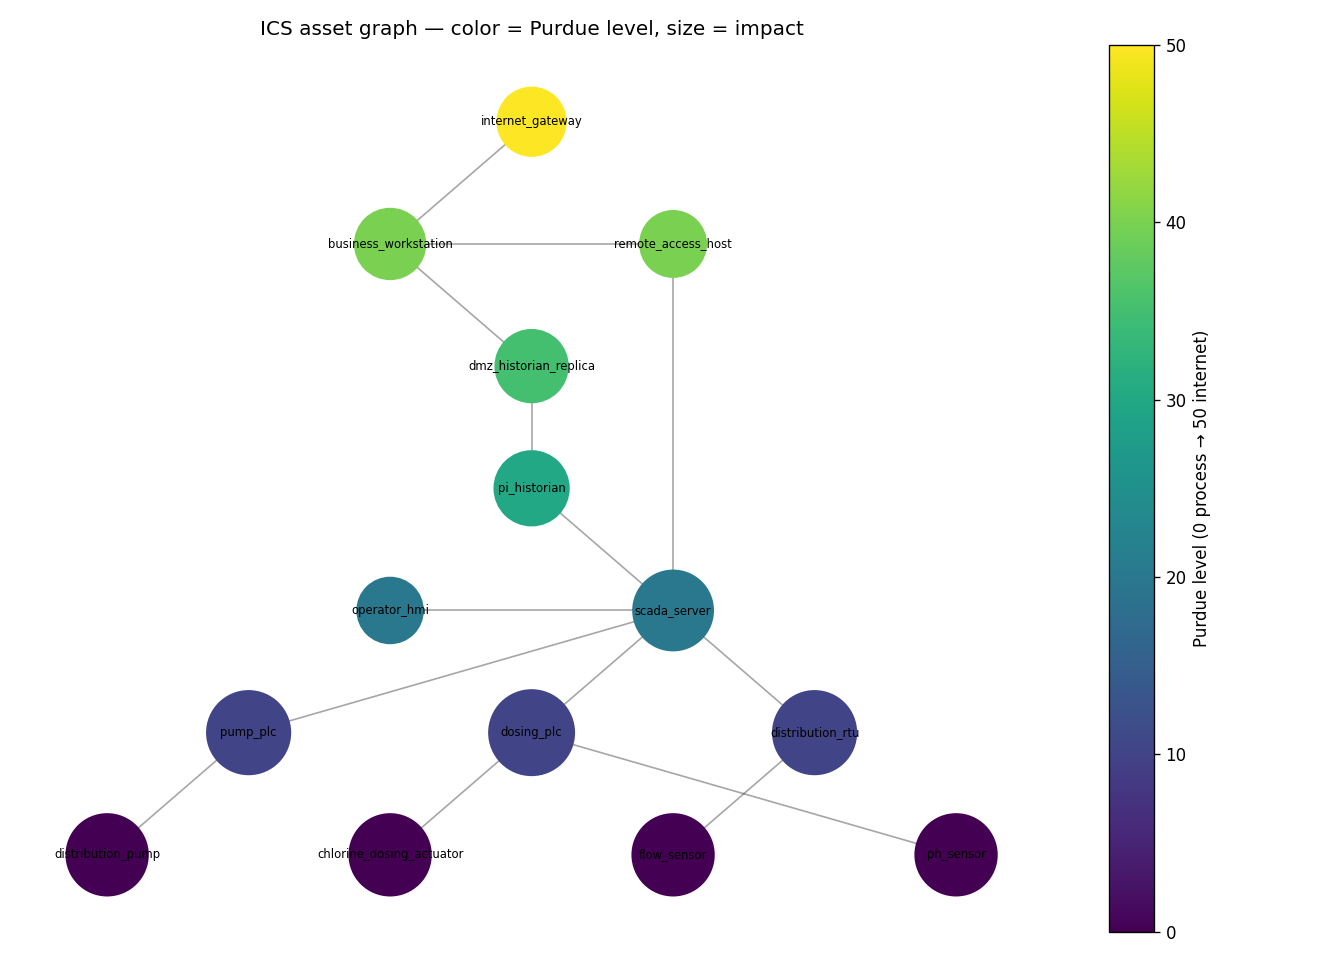
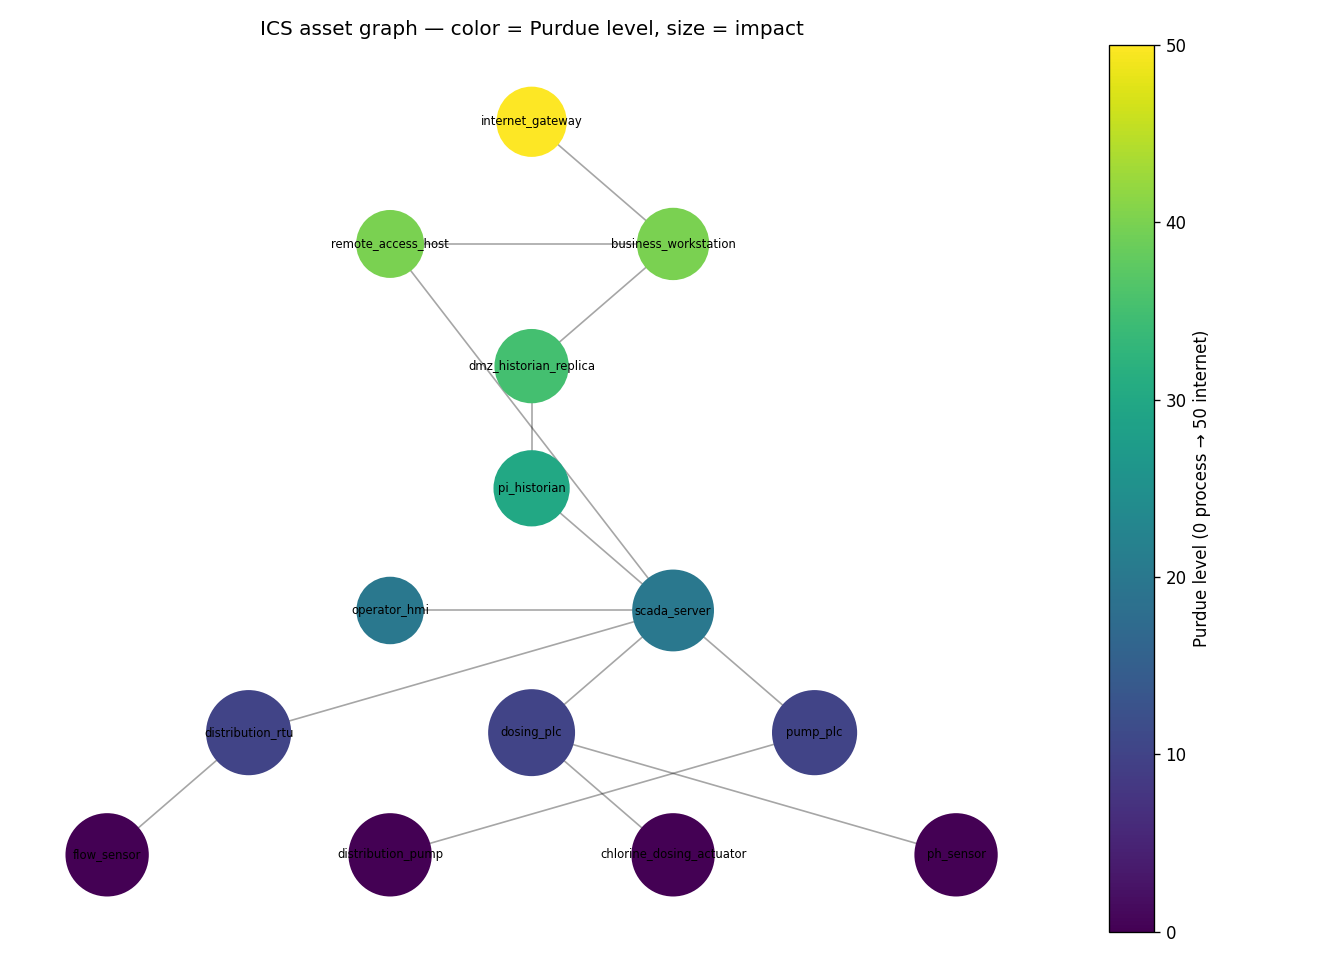
ATT&CK, IEC 62443

diff --git a/ics_modeler/frameworks.py b/ics_modeler/frameworks.py
@@ -1,0 +1,84 @@
+"""Mappings to recognized security frameworks.
+
+- IEC 62443 security zones & conduits (the ICS segmentation standard).
+- MITRE ATT&CK Navigator layer export (a JSON heatmap of technique exposure that
+  loads in https://mitre-attack.github.io/attack-navigator/).
+"""
+from __future__ import annotations
+
+import json
+from pathlib import Path
+
+# Purdue level -> IEC 62443 security zone. 62443 does not prescribe exact names per
+# Purdue level, but this is a conventional zoning of the reference model.
+IEC_62443_ZONE = {
+    "L0_PROCESS": "Process / Safety Zone",
+    "L1_CONTROL": "Basic Control Zone (Cell/Area)",
+    "L2_SUPERVISORY": "Supervisory Control Zone",
+    "L3_OPERATIONS": "Operations / Site Manufacturing Zone",
+    "L3_5_DMZ": "Industrial DMZ",
+    "L4_ENTERPRISE": "Enterprise Zone",
+    "L5_INTERNET": "External / Untrusted Zone",
+}
+_ZONE_ORDER = list(IEC_62443_ZONE)  # process -> external
+
+
+def zone_of(asset) -> str:
+    """The IEC 62443 zone an asset belongs to."""
+    return IEC_62443_ZONE.get(asset.level.name, "Unspecified Zone")
+
+
+def iec62443_zones(architecture) -> list[tuple[str, list[str]]]:
+    """Assets grouped by IEC 62443 zone, ordered process -> external."""
+    out: list[tuple[str, list[str]]] = []
+    for level in _ZONE_ORDER:
+        names = [a.name for a in architecture.assets.values() if a.level.name == level]
+        if names:
+            out.append((IEC_62443_ZONE[level], names))
+    return out
+
+
+def navigator_layer(architecture, mapped) -> dict:
+    """Build an ATT&CK Navigator layer (domain ics-attack) from technique exposure.
+
+    Each exposed technique is scored by the number of assets that expose it, with the
+    asset names in the comment so the heatmap is self-explanatory in Navigator.
+    """
+    by_tech: dict[str, list[str]] = {}
+    for name, data in mapped.items():
+        for t in data.get("techniques", []):
+            by_tech.setdefault(t["id"], []).append(name)
+
+    max_score = max((len(v) for v in by_tech.values()), default=1)
+    techniques = [
+        {
+            "techniqueID": tid,
+            "score": len(assets),
+            "enabled": True,
+            "comment": ", ".join(sorted(assets)),
+        }
+        for tid, assets in sorted(by_tech.items())
+    ]
+    return {
+        "name": f"{architecture.meta.get('name', 'ICS')} — technique exposure",
+        "versions": {"attack": "17", "navigator": "5.1.0", "layer": "4.5"},
+        "domain": "ics-attack",
+        "description": "Technique exposure generated by the Cyber-Physical Attack Surface Modeler.",
+        "techniques": techniques,
+        "gradient": {
+            "colors": ["#ffe8e8", "#fd8d3c", "#a50f15"],
+            "minValue": 0,
+            "maxValue": max_score,
+        },
+        "legendItems": [],
+        "metadata": [],
+        "hideDisabled": False,
+    }
+
+
+def write_navigator_layer(architecture, mapped, dest: str) -> str:
+    """Write the ATT&CK Navigator layer JSON to `dest`; returns the path."""
+    Path(dest).parent.mkdir(parents=True, exist_ok=True)
+    Path(dest).write_text(json.dumps(navigator_layer(architecture, mapped), indent=2),
+                          encoding="utf-8")
+    return dest

diff --git a/tests/test_frameworks.py b/tests/test_frameworks.py
@@ -1,0 +1,41 @@
+"""Tests for IEC 62443 zone mapping and ATT&CK Navigator layer export."""
+import json
+
+from ics_modeler.assets import load_architecture
+from ics_modeler.frameworks import iec62443_zones, navigator_layer, write_navigator_layer
+from ics_modeler.mapping import load_rules, map_architecture
+
+ARCH = "data/water_treatment.yaml"
+RULES = "data/mapping_rules.yaml"
+
+
+def _mapped():
+    arch = load_architecture(ARCH)
+    return arch, map_architecture(arch, load_rules(RULES))
+
+
+def test_navigator_layer_is_a_valid_ics_layer():
+    arch, mapped = _mapped()
+    layer = navigator_layer(arch, mapped)
+    assert layer["domain"] == "ics-attack"
+    assert layer["versions"]["layer"]          # Navigator needs a layer-format version
+    assert layer["techniques"], "expected exposed techniques"
+    for t in layer["techniques"]:              # required per-technique fields
+        assert t["techniqueID"] and t["score"] >= 1 and "comment" in t
+    ids = {t["techniqueID"] for t in layer["techniques"]}
+    assert "T1692.001" in ids                  # dosing_plc (EtherNet/IP) exposes Command Message
+
+
+def test_navigator_layer_writes_json(tmp_path):
+    arch, mapped = _mapped()
+    dest = tmp_path / "layer.json"
+    write_navigator_layer(arch, mapped, str(dest))
+    assert json.loads(dest.read_text())["domain"] == "ics-attack"
+
+
+def test_iec62443_zones_group_assets():
+    arch = load_architecture(ARCH)
+    zones = dict(iec62443_zones(arch))
+    assert "business_workstation" in zones["Enterprise Zone"]
+    # the dosing PLC sits in a control zone
+    assert any("dosing_plc" in names for z, names in zones.items() if "Control" in z)

diff --git a/ics_modeler/report.py b/ics_modeler/report.py
@@ -8,6 +8,8 @@ from __future__ import annotations
 
 from pathlib import Path
 
+from .frameworks import iec62443_zones
+
 _LEVEL_ORDER = [  # process -> internet, for inventory grouping
     "L0_PROCESS", "L1_CONTROL", "L2_SUPERVISORY", "L3_OPERATIONS",
     "L3_5_DMZ", "L4_ENTERPRISE", "L5_INTERNET",
@@ -90,6 +92,20 @@ def generate_briefing(architecture, mapped, scores, paths, chokepoints_,
                      f"— flat path from IT into OT; highest-priority segmentation fix.")
         L.append("")
 
+    # IEC 62443 zones & conduits -------------------------------------------
+    L.append("## IEC 62443 zones & conduits\n")
+    L.append("The architecture expressed in IEC 62443 terms — security **zones** (grouped "
+             "assets) and the **conduits** that connect them.\n")
+    for zone, names in iec62443_zones(architecture):
+        L.append(f"- **{zone}**: {', '.join(names)}")
+    if violations:
+        bypass = "; ".join(f"{v['from']} → {v['to']}" for v in violations)
+        L.append(f"\nConduit concern: IT→OT traffic should traverse the Industrial DMZ; "
+                 f"the following conduit(s) bypass it — **{bypass}**.")
+    else:
+        L.append("\nAll IT→OT conduits are mediated by the Industrial DMZ.")
+    L.append("\n_Reference: IEC 62443-3-3 — System security requirements and security levels._\n")
+
     # Attack-path findings --------------------------------------------------
     L.append("## Attack-path findings (easiest external→critical first)\n")
     L.append("_Paths respect the segmentation policy — edges the firewall denies are "
@@ -145,7 +161,9 @@ def generate_briefing(architecture, mapped, scores, paths, chokepoints_,
     L.append("## Figures\n")
     L.append("- `figures/network.png` — asset graph (color = Purdue level, size = impact)")
     L.append("- `figures/heatmap.png` — technique exposure matrix")
-    L.append("- `figures/risk_matrix.png` — likelihood × impact, one point per asset\n")
+    L.append("- `figures/risk_matrix.png` — likelihood × impact, one point per asset")
+    L.append("- `attack_navigator_layer.json` — load at mitre-attack.github.io/attack-navigator "
+             "for a technique-exposure heatmap\n")
 
     # Scope & limitations ---------------------------------------------------
     L.append("## Scope & limitations\n")

diff --git a/ics_modeler/pipeline.py b/ics_modeler/pipeline.py
@@ -9,6 +9,7 @@ import argparse
 from pathlib import Path
 
 from .assets import load_architecture
+from .frameworks import write_navigator_layer
 from .mapping import load_rules, map_architecture
 from .report import (
     generate_briefing,
@@ -71,6 +72,7 @@ def build(arch_path="data/reference_architecture.yaml",
     plot_network(graph, scores, f"{figdir}/network.png")
     plot_exposure_heatmap(mapped, f"{figdir}/heatmap.png")
     plot_risk_matrix(scores, f"{figdir}/risk_matrix.png")
+    write_navigator_layer(arch, mapped, f"{out_dir}/attack_navigator_layer.json")
 
     return generate_briefing(arch, mapped, scores, paths, chokes, campaigns, violations,
                              f"{out_dir}/briefing.md")

diff --git a/ROADMAP.md b/ROADMAP.md
@@ -179,6 +179,50 @@ pin real values rather than just smoke-checking structure.
 
 ---
 
+## Tier 4 — Security credibility (in progress: #10–11 done, #12–13 queued)
+
+Standard artifacts, framework alignment, and self-applied security hygiene that signal a
+real cyber project rather than a Python project about security.
+
+### 10. ATT&CK Navigator layer export — DONE
+**Why.** Analysts work in MITRE's ATT&CK Navigator daily; a Navigator-compatible layer is an
+instantly recognizable artifact and reuses the technique mapping already built.
+**What was done.** `frameworks.navigator_layer` / `write_navigator_layer` emit a valid
+`domain: "ics-attack"` layer — one entry per exposed technique, scored by the number of
+assets exposing it, with the asset names in the comment and a heat gradient. The pipeline
+writes `attack_navigator_layer.json` alongside the briefing; the committed sample is in
+`examples/water_treatment/`. Tests validate the layer structure.
+**Done when — met.** The pipeline emits a `.json` that loads in ATT&CK Navigator and
+highlights the architecture's exposed techniques.
+
+### 11. IEC 62443 zones & conduits alignment — DONE
+**Why.** IEC 62443 is the ICS-specific security standard; the Purdue + segmentation model is
+already a zones-and-conduits model, so making it explicit is high ICS credibility.
+**What was done.** `frameworks.IEC_62443_ZONE` maps each Purdue level to a 62443 security
+zone; the briefing gained an "IEC 62443 zones & conduits" section that groups assets by zone,
+flags any IT→OT conduit that bypasses the Industrial DMZ (reusing `segmentation_violations`),
+and cites IEC 62443-3-3.
+**Done when — met.** The briefing presents the architecture in 62443 zone/conduit terms and
+cites the standard.
+
+### 12. Supply-chain security + SECURITY.md
+**Why.** A security project is judged on its own hygiene; scanning its dependencies and
+publishing a disclosure policy is table stakes.
+**Plan.** Add a `pip-audit` (dependency CVE scan) job to CI, pin GitHub Actions by commit
+SHA, and add a `SECURITY.md` (supported versions, disclosure process, contact). Optionally a
+CycloneDX SBOM and Dependabot config.
+**Done when.** CI fails on a known-vulnerable dependency, and `SECURITY.md` exists.
+
+### 13. ATT&CK mitigations mapping
+**Why.** Mapping weaknesses to techniques says what's exposed; mapping techniques to their
+ATT&CK mitigations turns that into cited countermeasures — what a real assessment delivers.
+**Plan.** Parse mitigation objects + `mitigates` relationships from the ATT&CK bundle, and in
+the briefing pair each exposed technique with its ATT&CK for ICS mitigations (M-codes) to
+ground the recommendations.
+**Done when.** Briefing recommendations cite specific ATT&CK mitigations per exposed technique.
+
+---
+
 ## Explicitly out of scope (for now)
 
 - Live network/traffic analysis — this is a static, model-based tool by design.

diff --git a/README.md b/README.md
@@ -9,10 +9,11 @@ ATT&CK for ICS techniques, scores and prioritizes risk (NIST SP 800-30), and gen
 a structured vulnerability briefing. Built entirely on **public reference architectures
 and public data** — no proprietary content.
 
-**What it demonstrates:** cyber-physical threat modeling on the Purdue model, fluency with
-ATT&CK for ICS / NIST SP 800-30 / CISA KEV, segmentation and attack-path reasoning, and a
-reproducible data pipeline over public security sources. Design decisions and trade-offs are
-recorded in [ROADMAP.md](ROADMAP.md).
+**What it demonstrates:** cyber-physical threat modeling on the Purdue model and IEC 62443
+zones/conduits, fluency with ATT&CK for ICS / NIST SP 800-30 / CISA KEV, segmentation and
+attack-path reasoning, an ATT&CK Navigator layer export, and a reproducible data pipeline
+over public security sources. Design decisions and trade-offs are recorded in
+[ROADMAP.md](ROADMAP.md).
 
 ## Status
 
@@ -27,9 +28,11 @@ Real CVEs (CPE-matched, KEV-flagged) are attached from a committed snapshot **by
 
 A full generated briefing for the water-treatment model is committed at
 [`examples/water_treatment/`](examples/water_treatment/briefing.md) — executive summary,
-risk-ranked assets, IT/OT segmentation findings, ranked attack paths, CPE-matched CVEs, and
-confidence-scored threat-trend correlation. The modeled asset graph (color = Purdue level,
-size = impact):
+risk-ranked assets, IEC 62443 zones/conduits, IT/OT segmentation findings, ranked attack
+paths, CPE-matched CVEs, and confidence-scored threat-trend correlation. It also exports an
+[ATT&CK Navigator layer](examples/water_treatment/attack_navigator_layer.json) (load it at
+[attack-navigator](https://mitre-attack.github.io/attack-navigator/)). The modeled asset
+graph (color = Purdue level, size = impact):
 
 ![ICS asset graph](examples/water_treatment/figures/network.png)
 
@@ -95,7 +98,8 @@ vendors and protocols) — to demonstrate the framework generalizes.
 3. Attach CPE-matched, KEV-flagged CVEs (committed snapshot by default; `--cves` for live NVD)
 4. Score risk (NIST 800-30 Table I-2) + segmentation-aware attack-path / chokepoint analysis
 5. Correlate real campaigns (`threat_trends.yaml`) with a confidence score
-6. Generate the briefing + figures into `results/`
+6. Generate the briefing (incl. IEC 62443 zones/conduits), figures, and an ATT&CK Navigator
+   layer into `results/`
 
 ## Data sources
 

diff --git a/examples/water_treatment/briefing.md b/examples/water_treatment/briefing.md
@@ -64,6 +64,22 @@ See `figures/heatmap.png` for the full matrix.
 Connections that cross the IT/OT boundary **directly, skipping the DMZ** — the segmentation control that should mediate them:
 - **remote_access_host** (L4_ENTERPRISE) → **scada_server** (L2_SUPERVISORY) — flat path from IT into OT; highest-priority segmentation fix.
 
+## IEC 62443 zones & conduits
+
+The architecture expressed in IEC 62443 terms — security **zones** (grouped assets) and the **conduits** that connect them.
+
+- **Process / Safety Zone**: chlorine_dosing_actuator, ph_sensor, distribution_pump, flow_sensor
+- **Basic Control Zone (Cell/Area)**: dosing_plc, pump_plc, distribution_rtu
+- **Supervisory Control Zone**: scada_server, operator_hmi
+- **Operations / Site Manufacturing Zone**: pi_historian
+- **Industrial DMZ**: dmz_historian_replica
+- **Enterprise Zone**: business_workstation, remote_access_host
+- **External / Untrusted Zone**: internet_gateway
+
+Conduit concern: IT→OT traffic should traverse the Industrial DMZ; the following conduit(s) bypass it — **remote_access_host → scada_server**.
+
+_Reference: IEC 62443-3-3 — System security requirements and security levels._
+
 ## Attack-path findings (easiest external→critical first)
 
 _Paths respect the segmentation policy — edges the firewall denies are excluded. Cost = summed hop difficulty (unauthenticated hops are cheaper)._
@@ -135,6 +151,7 @@ _Confidence = fraction of each campaign's characteristic techniques this archite
 - `figures/network.png` — asset graph (color = Purdue level, size = impact)
 - `figures/heatmap.png` — technique exposure matrix
 - `figures/risk_matrix.png` — likelihood × impact, one point per asset
+- `attack_navigator_layer.json` — load at mitre-attack.github.io/attack-navigator for a technique-exposure heatmap
 
 ## Scope & limitations
 